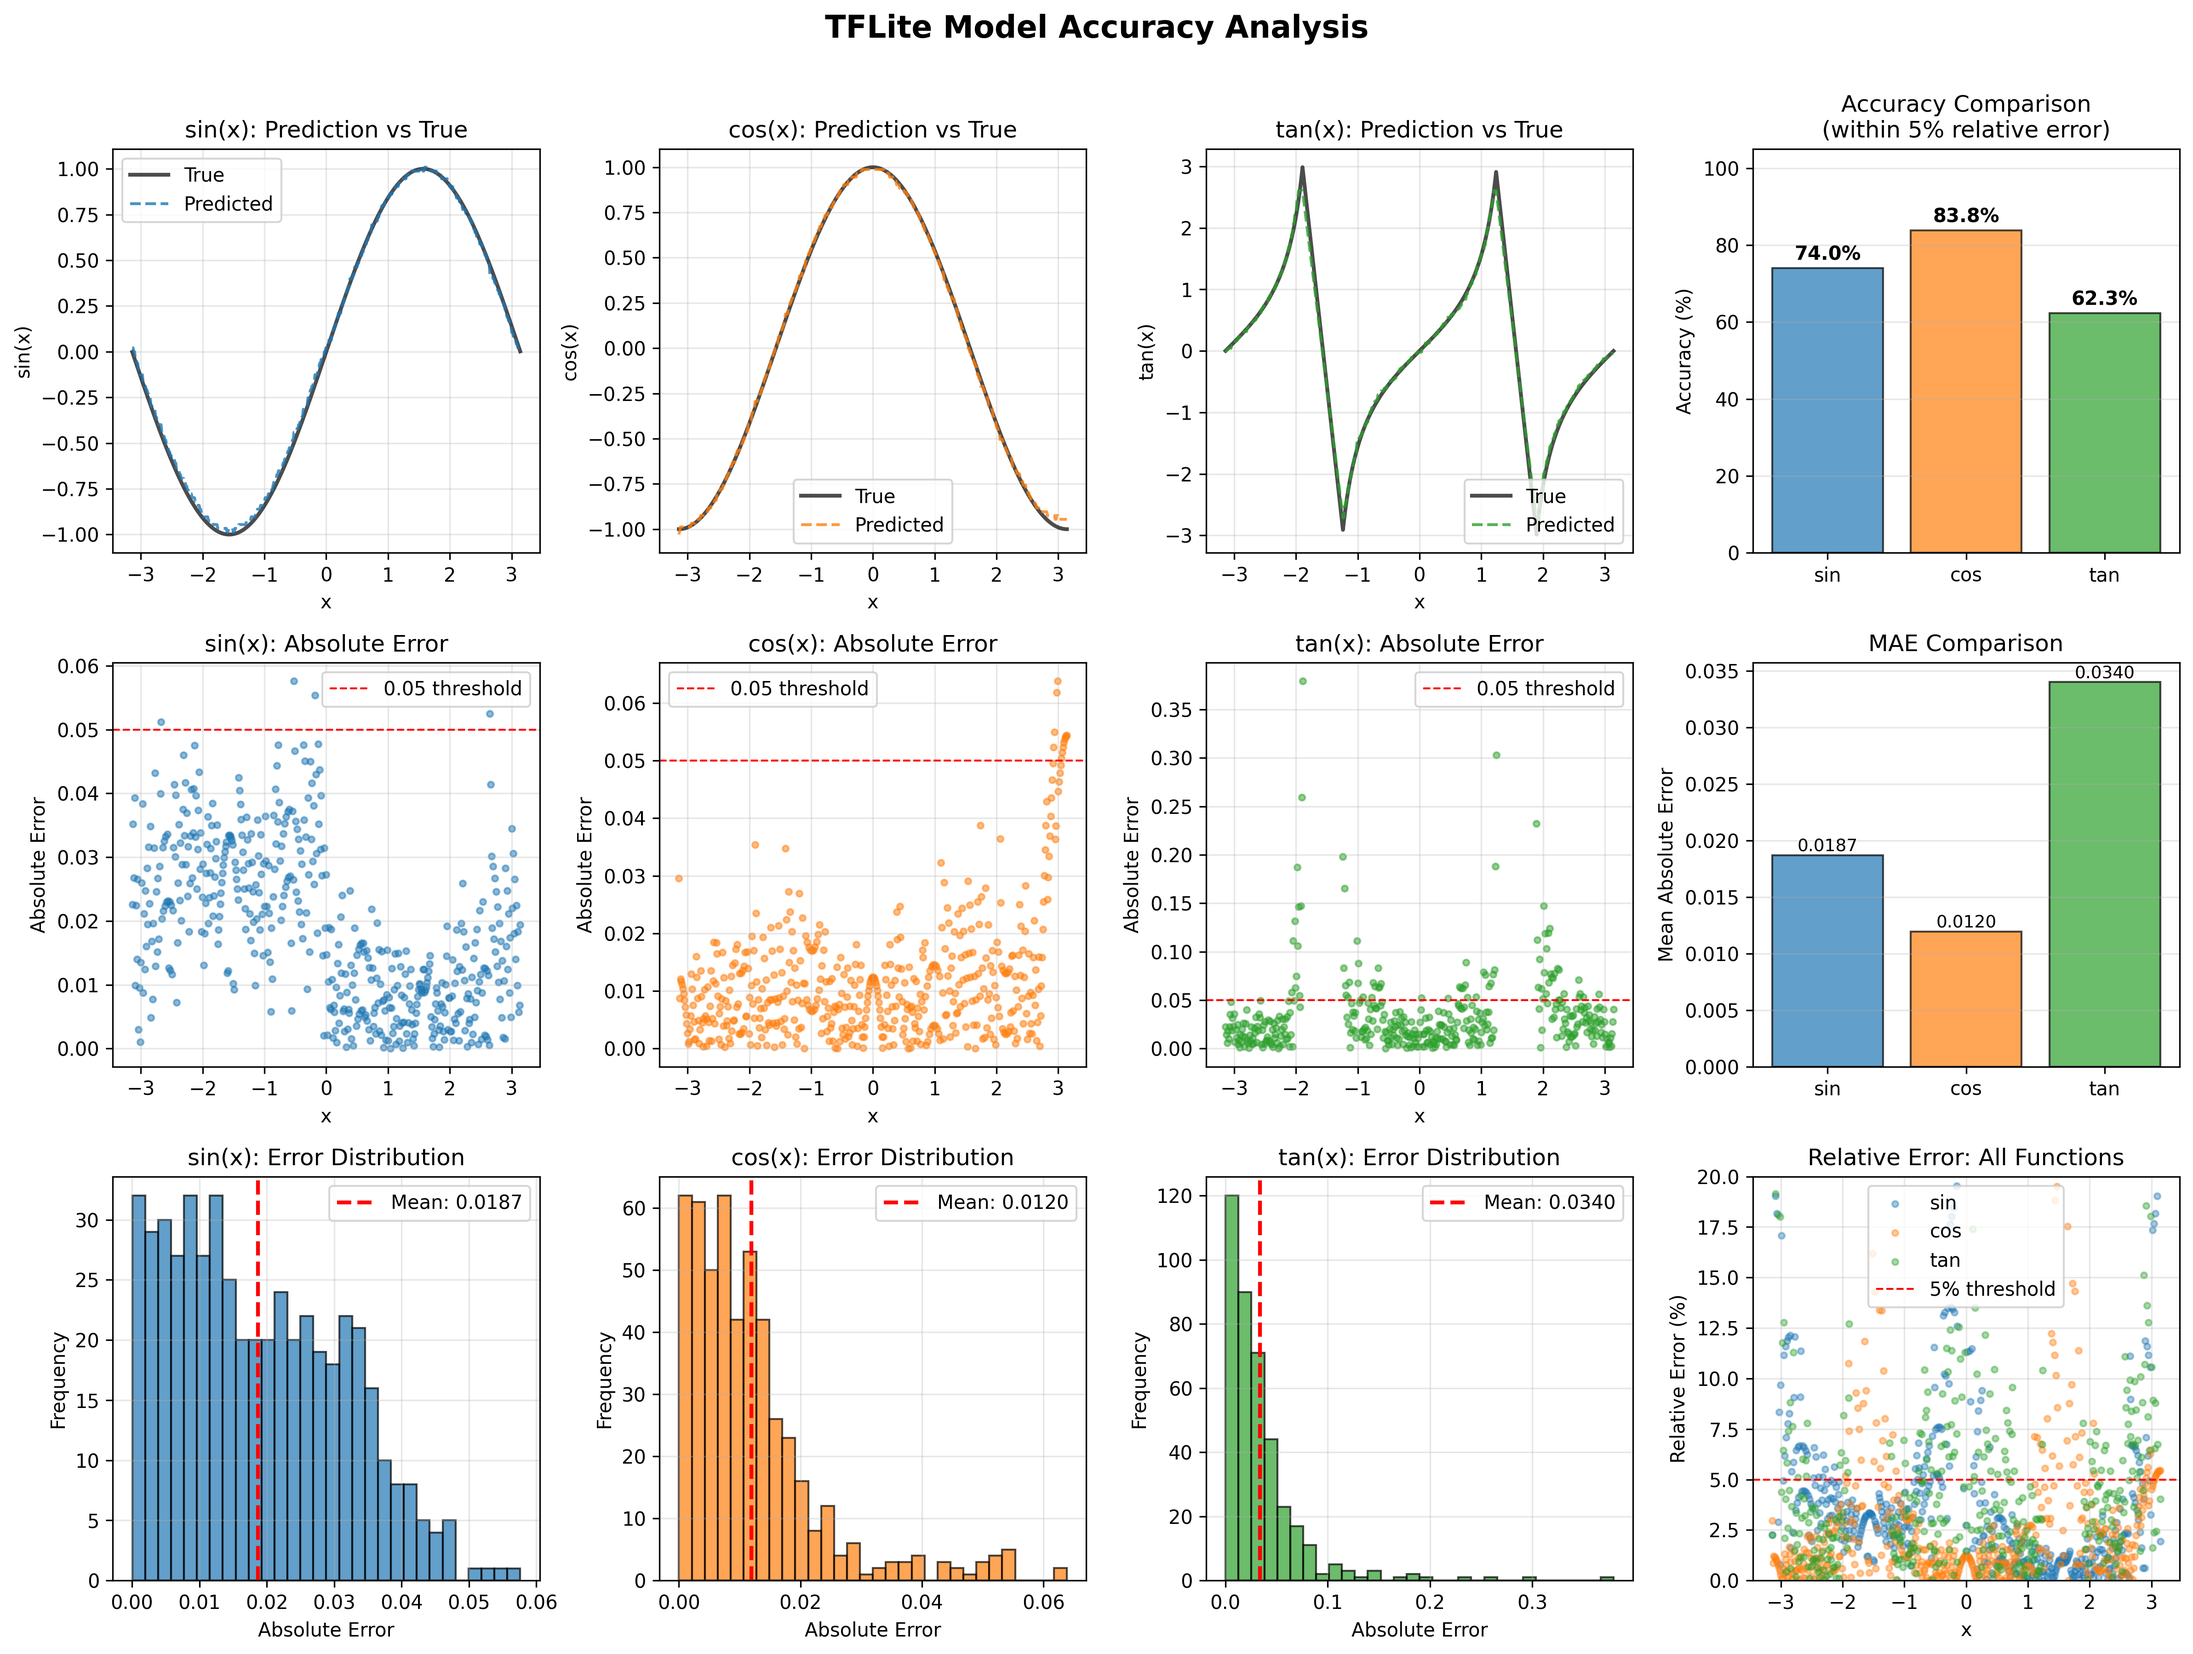
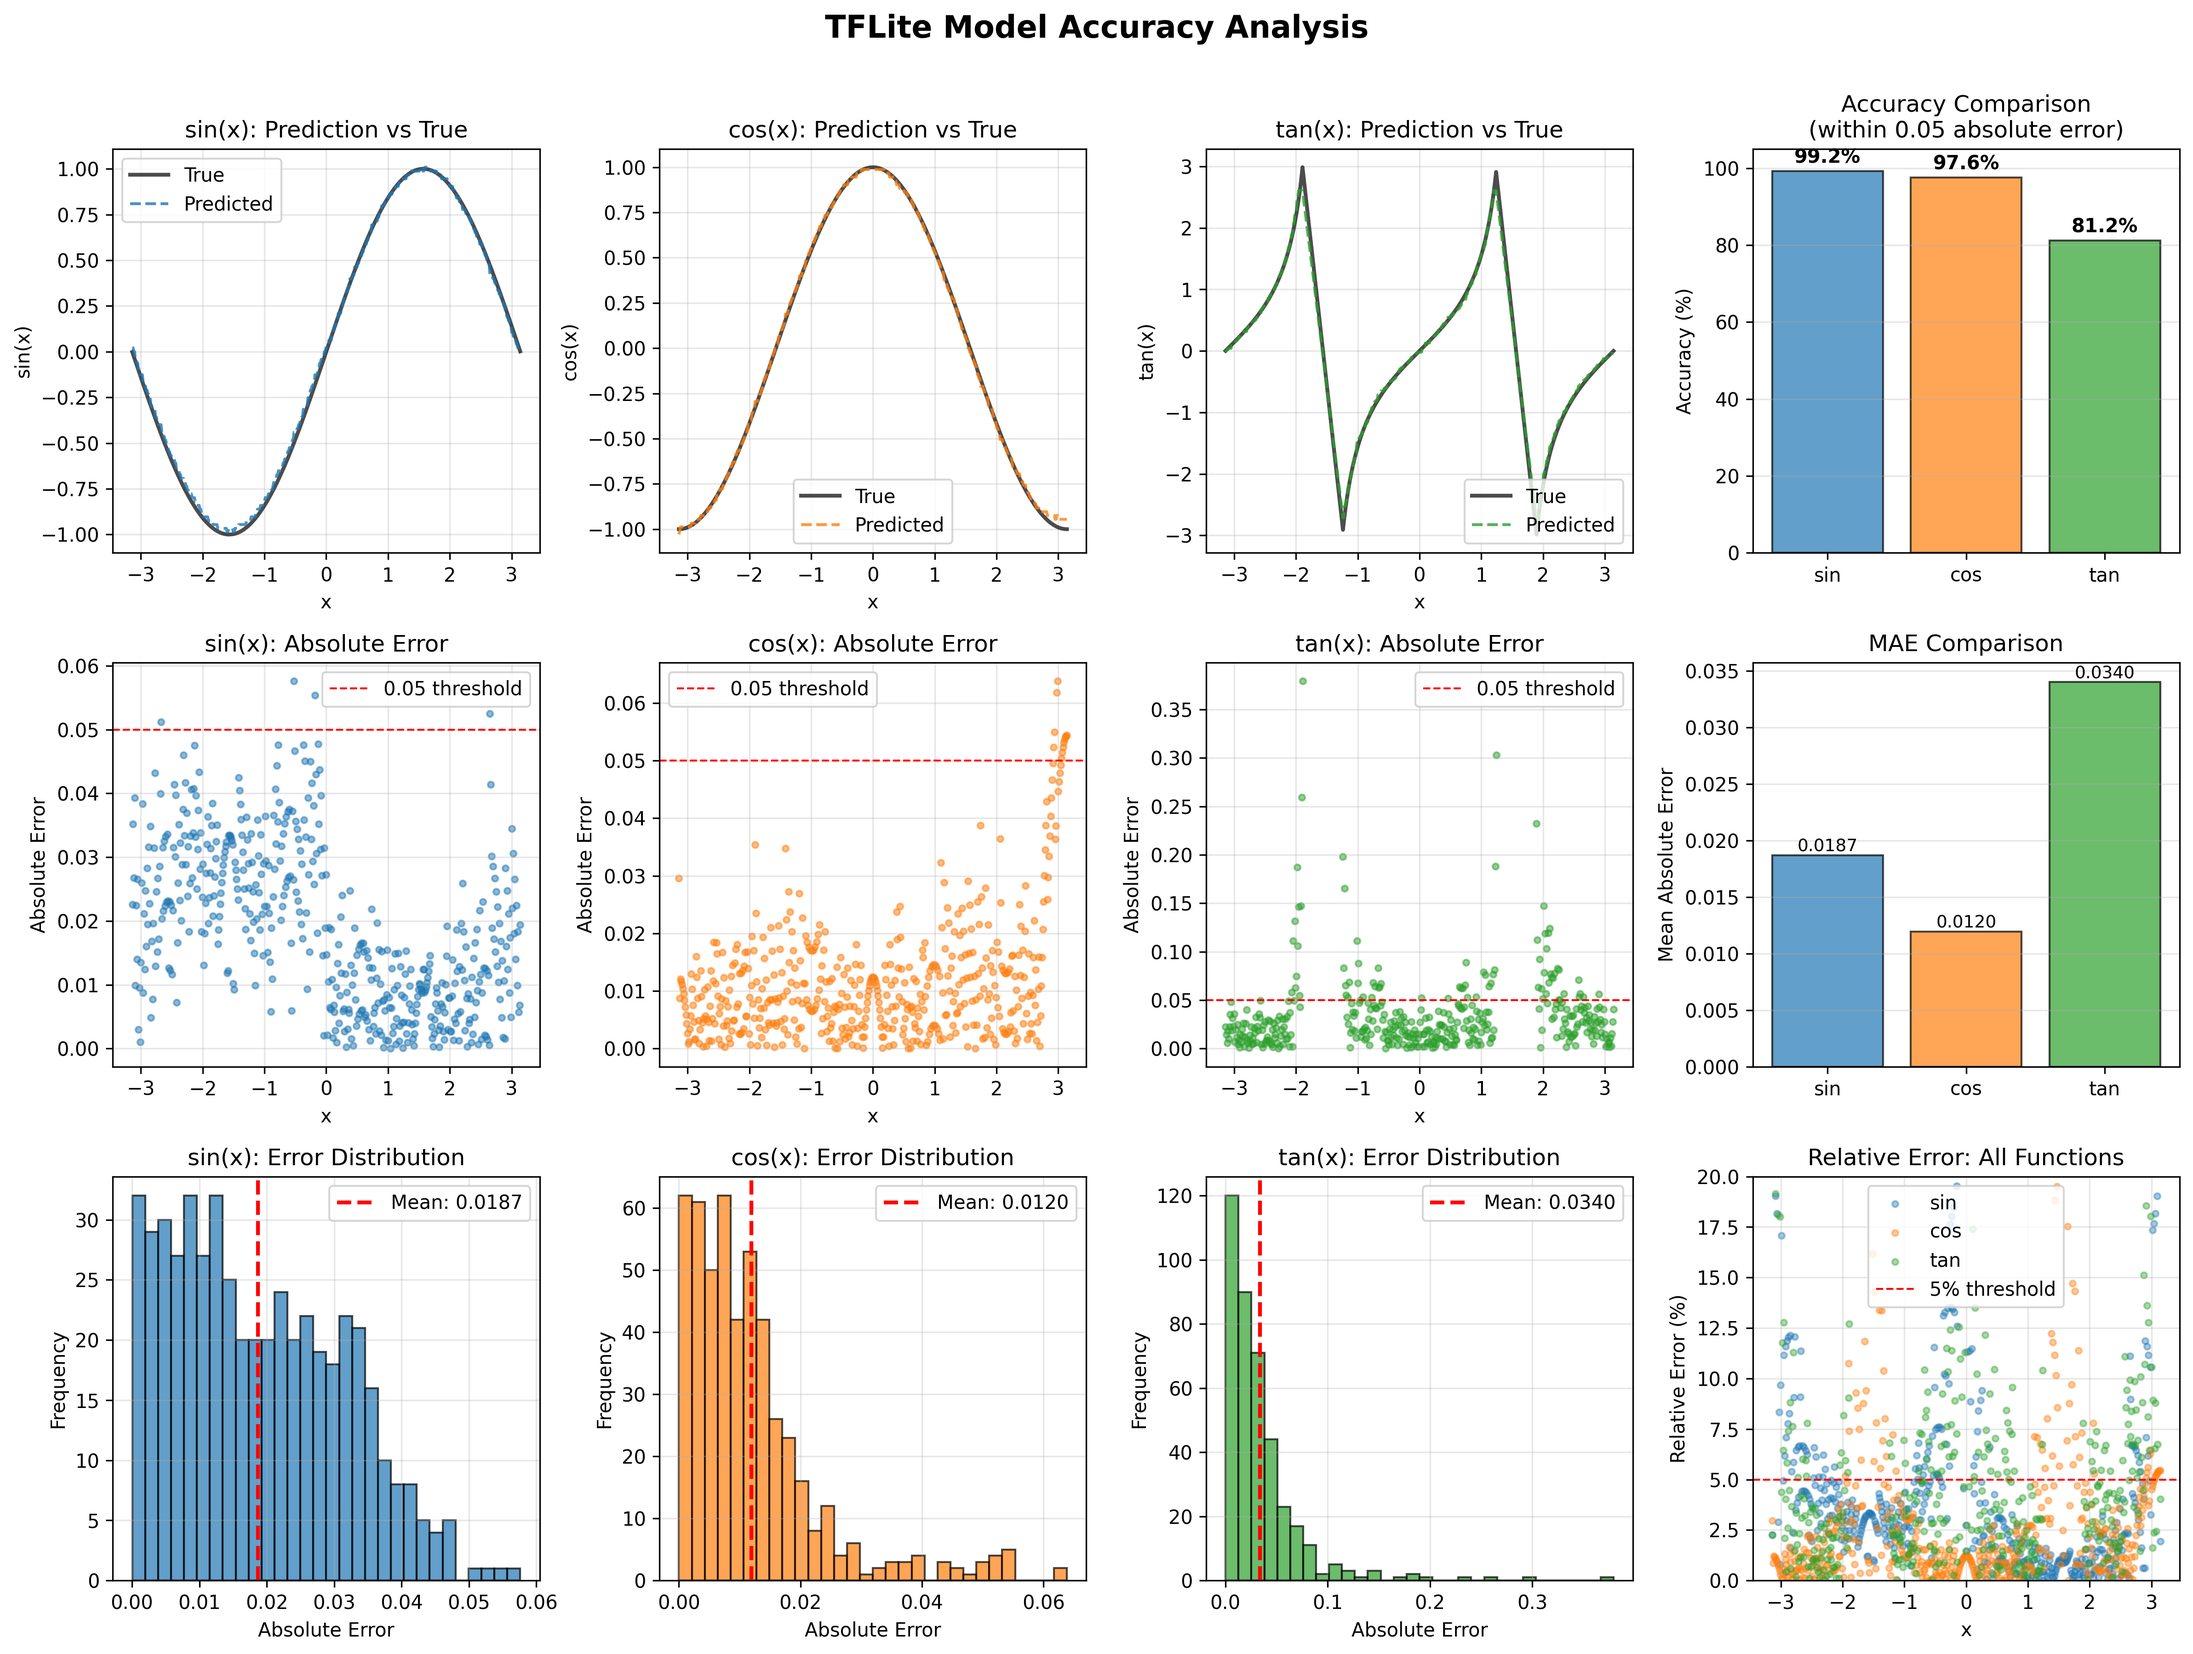
Updated evaluation metrics.

Changed region(s): [[0.7811, 0.0623, 0.9998, 0.1868]]

diff --git a/backend/Project1/evaluate_tflite_accuracy.py b/backend/Project1/evaluate_tflite_accuracy.py
@@ -211,21 +211,33 @@ class TFLiteModelEvaluator:
         # Calculate absolute errors
         abs_errors = np.abs(y_test - y_pred)
 
-        # Calculate relative errors with safeguard for near-zero values
-        # Use relative error for |true| > 0.01, otherwise use absolute error
-        threshold = 0.01
-        relative_errors = np.where(
-            np.abs(y_test) > threshold,
-            abs_errors / np.abs(y_test),  # Relative error: |pred - true| / |true|
-            abs_errors                     # Absolute error for values near zero
+        # Calculate relative errors (percentage)
+        # Avoid division by zero - use absolute error for very small values
+        safe_relative_errors = np.where(
+            np.abs(y_test) > 0.01,
+            (abs_errors / np.abs(y_test)) * 100,  # Relative error as percentage
+            abs_errors * 100  # For near-zero values, treat absolute error as percentage
         )
 
+        # Two accuracy metrics:
+        # 1. Absolute accuracy: what % of predictions are within 0.05 absolute error
+        absolute_accuracy = np.mean(abs_errors < 0.05) * 100
+
+        # 2. Relative accuracy: what % of predictions are within tolerance% relative error
+        # (only for values where |true| > 0.01)
+        mask_non_zero = np.abs(y_test) > 0.01
+        if np.sum(mask_non_zero) > 0:
+            rel_errors_non_zero = (abs_errors[mask_non_zero] / np.abs(y_test[mask_non_zero])) * 100
+            relative_accuracy = np.mean(rel_errors_non_zero < (tolerance * 100)) * 100
+        else:
+            relative_accuracy = 100.0
+
         # Overall metrics
-        overall_accuracy = np.mean(relative_errors < tolerance) * 100
+        overall_accuracy = absolute_accuracy  # Use absolute accuracy as primary metric
         overall_mae = np.mean(abs_errors)
         overall_max_error = np.max(abs_errors)
         overall_rmse = np.sqrt(np.mean(abs_errors ** 2))
-        overall_mean_rel_error = np.mean(relative_errors) * 100  # as percentage
+        overall_mean_rel_error = np.mean(safe_relative_errors)  # as percentage
 
         results = {
             'overall': {
@@ -246,16 +258,27 @@ class TFLiteModelEvaluator:
                 func_y_test = y_test[mask]
                 func_y_pred = y_pred[mask]
                 func_abs_errors = abs_errors[mask]
-                func_rel_errors = relative_errors[mask]
 
-                func_accuracy = np.mean(func_rel_errors < tolerance) * 100
+                # Calculate absolute accuracy for this function
+                func_abs_accuracy = np.mean(func_abs_errors < 0.05) * 100
+
+                # Calculate relative accuracy (only for non-zero values)
+                func_mask_non_zero = np.abs(func_y_test) > 0.01
+                if np.sum(func_mask_non_zero) > 0:
+                    func_rel_err = (func_abs_errors[func_mask_non_zero] / np.abs(func_y_test[func_mask_non_zero])) * 100
+                    func_rel_accuracy = np.mean(func_rel_err < (tolerance * 100)) * 100
+                    func_mean_rel_error = np.mean(func_rel_err)
+                else:
+                    func_rel_accuracy = 100.0
+                    func_mean_rel_error = 0.0
+
                 func_mae = np.mean(func_abs_errors)
                 func_max_error = np.max(func_abs_errors)
                 func_rmse = np.sqrt(np.mean(func_abs_errors ** 2))
-                func_mean_rel_error = np.mean(func_rel_errors) * 100
 
                 results[func_name] = {
-                    'accuracy': func_accuracy,
+                    'accuracy': func_abs_accuracy,  # Use absolute accuracy
+                    'relative_accuracy': func_rel_accuracy,
                     'mae': func_mae,
                     'max_error': func_max_error,
                     'rmse': func_rmse,
@@ -273,7 +296,7 @@ class TFLiteModelEvaluator:
             if func_name in results:
                 r = results[func_name]
                 print(f"{func_name}(x):")
-                print(f"  Accuracy: {r['accuracy']:.2f}% (within {tolerance*100:.0f}% relative error)")
+                print(f"  Accuracy: {r['accuracy']:.2f}% (within 0.05 absolute error)")
                 print(f"  Mean Relative Error: {r['mean_rel_error']:.2f}%")
                 print(f"  MAE: {r['mae']:.6f}")
                 print(f"  RMSE: {r['rmse']:.6f}")
@@ -284,7 +307,7 @@ class TFLiteModelEvaluator:
         # Overall results
         r = results['overall']
         print(f"Overall Performance:")
-        print(f"  Accuracy: {r['accuracy']:.2f}% (within {tolerance*100:.0f}% relative error)")
+        print(f"  Accuracy: {r['accuracy']:.2f}% (within 0.05 absolute error)")
         print(f"  Mean Relative Error: {r['mean_rel_error']:.2f}%")
         print(f"  MAE: {r['mae']:.6f}")
         print(f"  RMSE: {r['rmse']:.6f}")
@@ -306,7 +329,7 @@ class TFLiteModelEvaluator:
                 true_val = y_test[i]
                 pred_val = y_pred[i]
                 abs_err = abs_errors[i]
-                rel_err = relative_errors[i] * 100
+                rel_err = safe_relative_errors[i]
 
                 print(f"{func:<6} {x_denorm:>7.3f} {true_val:>9.5f} {pred_val:>9.5f} {abs_err:>9.5f} {rel_err:>9.2f}")
 

diff --git a/backend/Project1/visualize_tflite_accuracy.py b/backend/Project1/visualize_tflite_accuracy.py
@@ -172,11 +172,11 @@ class TFLiteModelVisualizer:
         # Calculate errors
         abs_errors = np.abs(y_test - y_pred)
 
-        threshold = 0.01
+        # Calculate relative errors (as percentage, for display only)
         relative_errors = np.where(
-            np.abs(y_test) > threshold,
-            abs_errors / np.abs(y_test),
-            abs_errors
+            np.abs(y_test) > 0.01,
+            (abs_errors / np.abs(y_test)) * 100,  # Relative error as percentage
+            abs_errors * 100  # For near-zero values
         )
 
         print(f"✓ Inference complete")
@@ -258,10 +258,10 @@ class TFLiteModelVisualizer:
 
         for func_name in ['sin', 'cos', 'tan']:
             mask = np.array([label == func_name for label in func_labels])
-            func_rel_errors = relative_errors[mask]
             func_abs_errors = abs_errors[mask]
 
-            accuracy = np.mean(func_rel_errors < 0.05) * 100
+            # Use absolute error for accuracy: % within 0.05 error
+            accuracy = np.mean(func_abs_errors < 0.05) * 100
             mae = np.mean(func_abs_errors)
 
             accuracies.append(accuracy)
@@ -272,7 +272,7 @@ class TFLiteModelVisualizer:
         bars = ax.bar(x_pos, accuracies, color=[colors[f] for f in function_names], alpha=0.7, edgecolor='black')
 
         ax.set_ylabel('Accuracy (%)')
-        ax.set_title('Accuracy Comparison\n(within 5% relative error)')
+        ax.set_title('Accuracy Comparison\n(within 0.05 absolute error)')
         ax.set_xticks(x_pos)
         ax.set_xticklabels(function_names)
         ax.set_ylim([0, 105])
@@ -307,7 +307,7 @@ class TFLiteModelVisualizer:
         for func_name in ['sin', 'cos', 'tan']:
             mask = np.array([label == func_name for label in func_labels])
             func_x = x_raw[mask]
-            func_rel_errors = relative_errors[mask] * 100  # as percentage
+            func_rel_errors = relative_errors[mask]  # already as percentage
 
             ax.scatter(func_x, func_rel_errors, alpha=0.4,
                       color=colors[func_name], s=10, label=func_name)
@@ -335,15 +335,16 @@ class TFLiteModelVisualizer:
         for func_name in ['sin', 'cos', 'tan']:
             mask = np.array([label == func_name for label in func_labels])
             func_abs_errors = abs_errors[mask]
-            func_rel_errors = relative_errors[mask]
+            func_rel_errors = relative_errors[mask]  # already as percentage
 
-            accuracy = np.mean(func_rel_errors < 0.05) * 100
+            # Use absolute error for accuracy
+            accuracy = np.mean(func_abs_errors < 0.05) * 100
             mae = np.mean(func_abs_errors)
             max_error = np.max(func_abs_errors)
-            mean_rel_error = np.mean(func_rel_errors) * 100
+            mean_rel_error = np.mean(func_rel_errors)
 
             print(f"\n{func_name}(x):")
-            print(f"  Accuracy: {accuracy:.2f}% (within 5% relative error)")
+            print(f"  Accuracy: {accuracy:.2f}% (within 0.05 absolute error)")
             print(f"  Mean Relative Error: {mean_rel_error:.2f}%")
             print(f"  MAE: {mae:.6f}")
             print(f"  Max Error: {max_error:.6f}")
